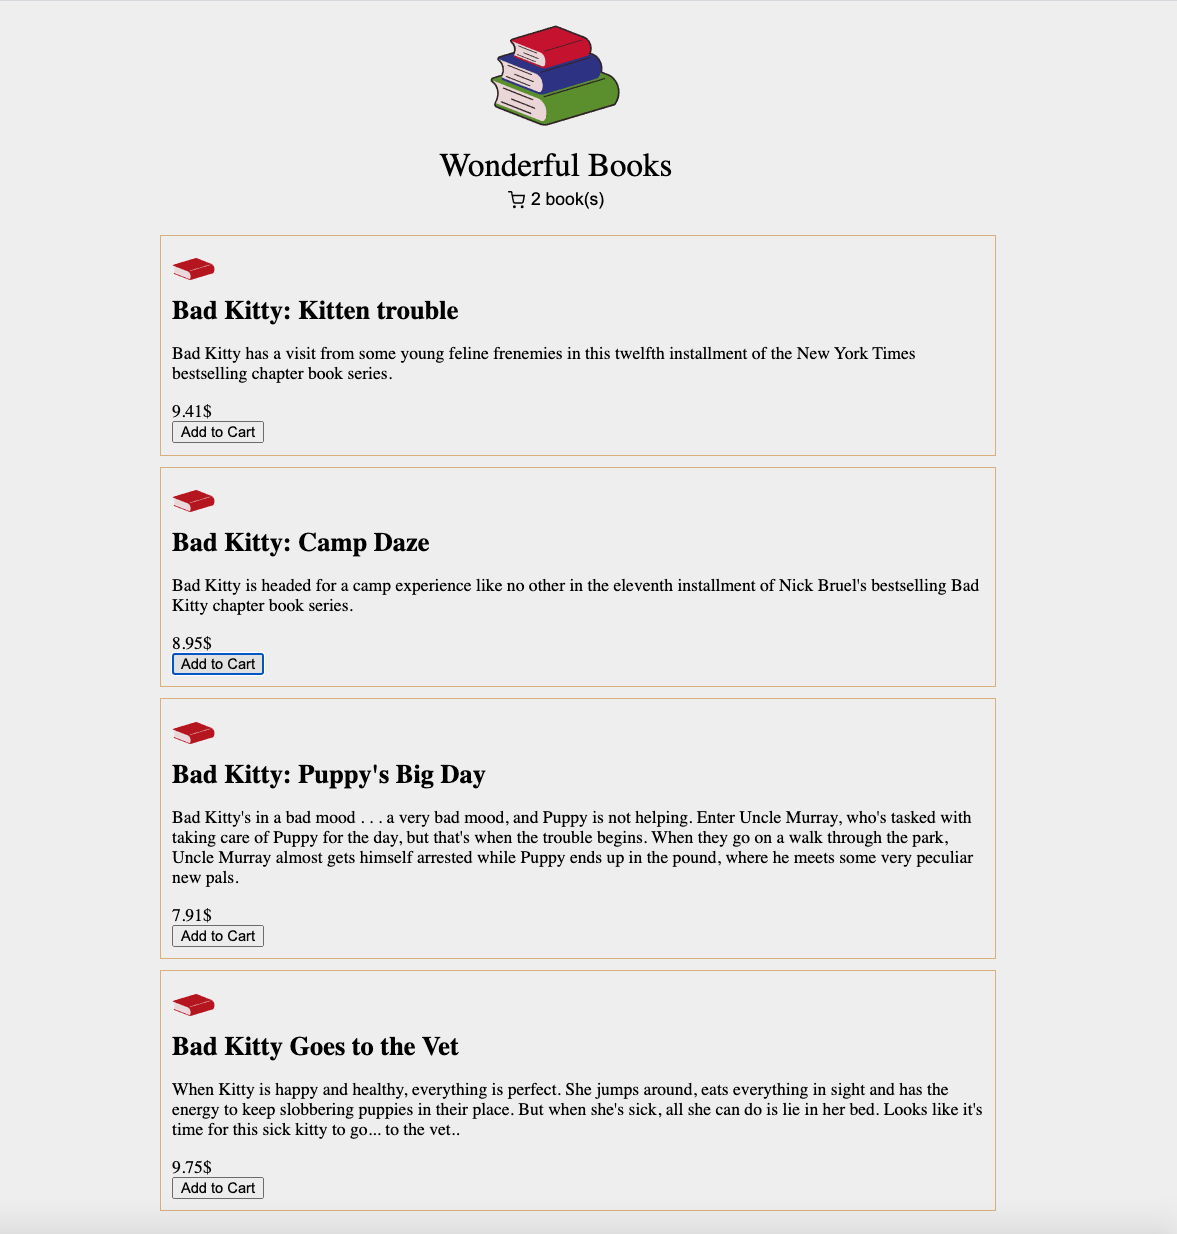
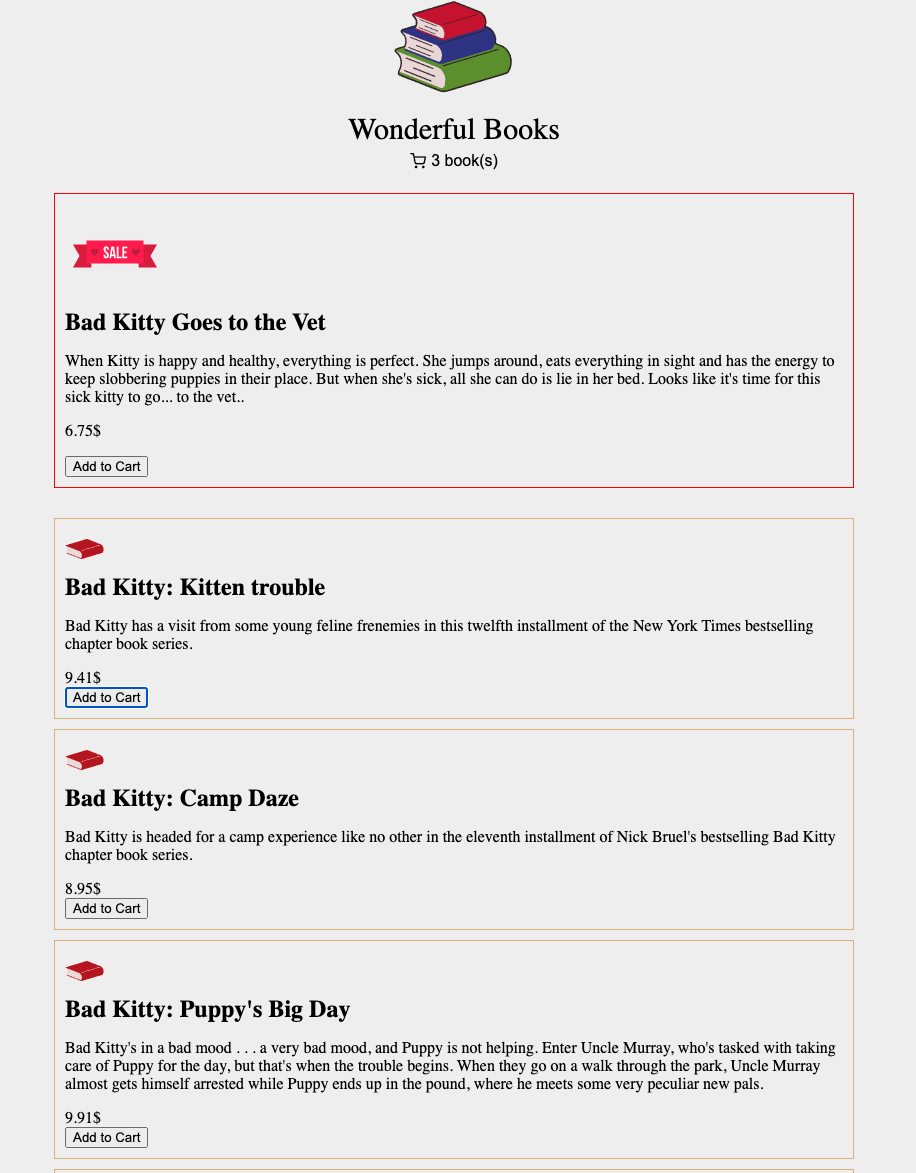
Handling original DOM events

Changed region(s): [[0.0611, 0.1841, 0.917, 0.9821], [0.3668, 0.0, 0.6114, 0.1841]]

diff --git a/src/components/Cart.tsx b/src/components/Cart.tsx
@@ -1,4 +1,4 @@
-import React from 'react';
+import React, { createRef } from 'react';
 import { FiShoppingCart } from 'react-icons/fi';
 import CartCSS from './Cart.module.css';
 import { AppStateContext } from './AppState'
@@ -10,6 +10,8 @@ interface State {
 }
 
 class Cart extends React.Component<Props, State> {
+    #containerRef: React.RefObject<HTMLDivElement>;
+
     constructor(props: Props) {
         super(props);
         this.state = {
@@ -17,6 +19,9 @@ class Cart extends React.Component<Props, State> {
         };
         //using bind:
         // this.handleClick = this.handleClick.bind(this);
+
+        //Initialize the ref
+        this.#containerRef = createRef();
     }
     //using bind:
     // handleClick(e: React.MouseEvent<HTMLButtonElement, MouseEvent>) {
@@ -43,6 +48,18 @@ class Cart extends React.Component<Props, State> {
         this.setState((prevState) => ({ isOpen: !prevState.isOpen }));
     }
 
+    handleOutsideClick = (e: MouseEvent) => {
+        if (this.#containerRef.current && !this.#containerRef.current.contains(e.target as Node)) {
+            this.setState({ isOpen: false });
+        }
+    };
+    componentDidMount() {
+        document.addEventListener('mousedown', this.handleOutsideClick);
+    }
+
+    componentWillUnmount() {
+        document.removeEventListener('mousedown', this.handleOutsideClick);
+    }
 
     render() {
         return (
@@ -52,30 +69,30 @@ class Cart extends React.Component<Props, State> {
             // a context object includes, together with Provider component, the Consumer component.
             // and we can use this component to access the context value through a child function (render props api)
             <AppStateContext.Consumer>
-            {(state) => {
-                const itemsCount = state.cart.items.reduce((sum, item) => {
-                    return sum + item.quantity;
-                }, 0);
-                return (
-                    <div className={CartCSS.cartContainer}>
-                        <button className={CartCSS.button}
-                            type="button"
-                            onClick={this.handleClick}>
-                            <FiShoppingCart />
-                            <span>{itemsCount} book(s)</span>
-                        </button>
-                        <div className={CartCSS.cartDropDown}
-                            style={{
-                                display: this.state.isOpen ? 'block' : 'none',
-                            }}>
-                            <ul>
-                                {state.cart.items.map(item => {
-                                    return <li key={item.id}>{item.name} &times; {item.quantity}</li>
-                                })}
-                            </ul>
-                        </div>
-                    </div>)
-            }}</AppStateContext.Consumer>
+                {(state) => {
+                    const itemsCount = state.cart.items.reduce((sum, item) => {
+                        return sum + item.quantity;
+                    }, 0);
+                    return (
+                        <div className={CartCSS.cartContainer} ref={this.#containerRef}>
+                            <button className={CartCSS.button}
+                                type="button"
+                                onClick={this.handleClick}>
+                                <FiShoppingCart />
+                                <span>{itemsCount} book(s)</span>
+                            </button>
+                            <div className={CartCSS.cartDropDown}
+                                style={{
+                                    display: this.state.isOpen ? 'block' : 'none',
+                                }}>
+                                <ul>
+                                    {state.cart.items.map(item => {
+                                        return <li key={item.id}>{item.name} &times; {item.quantity}</li>
+                                    })}
+                                </ul>
+                            </div>
+                        </div>)
+                }}</AppStateContext.Consumer>
 
 
         )

diff --git a/webpack.config.js b/webpack.config.js
@@ -1,40 +1,44 @@
-const HTMLWebpackPlugin = require('html-webpack-plugin');
-const MiniCssExtractPlugin = require('mini-css-extract-plugin')
+const HtmlWebpackPlugin = require('html-webpack-plugin');
+const MiniCssExtractPlugin = require('mini-css-extract-plugin');
 
 module.exports = {
-    entry: "./src/index.tsx",
-    devtool: "eval-source-map",
-    resolve:{
-        extensions: ['.js', '.ts', '.tsx'],
-    },
-    module:{
-        rules:[{
-            test: /\.tsx?$/,
-            loader: 'ts-loader',
-            exclude: /node_modules/,
+  entry: './src/index.tsx',
+  devtool: 'eval-source-map',
+  resolve: {
+    extensions: ['.js', '.ts', '.tsx'],
+  },
+  module: {
+    rules: [
+      {
+        test: /\.tsx?$/,
+        loader: 'babel-loader',
+        exclude: /node_modules/,
+      },
+      {
+        test: /\.css$/,
+        use: [
+          MiniCssExtractPlugin.loader,
+          { loader: 'css-loader', options: { modules: true } },
+        ],
+      },
+      {
+        test: /\.svg$/,
+        loader: '@svgr/webpack',
+        options: {
+          svgoConfig: {
+            plugins: {
+              removeViewBox: false,
+            },
+          },
         },
-        {
-            test: /\.css$/,
-            use: [MiniCssExtractPlugin.loader, { loader: 'css-loader', options: {modules: true}}],
-        },
-        {
-            test: /\.svg$/,
-            loader: '@svgr/webpack',
-            options: {
-                svgoConfig: {
-                  plugins: {
-                    removeViewBox: false,
-                  },
-                },
-              },
-        },
-    ]
-    },
-    plugins: [
-        new HTMLWebpackPlugin({
-            template: './src/index.html',
-            filename: 'index.html'
-        }),
-        new MiniCssExtractPlugin(),
+      },
     ],
-}
+  },
+  plugins: [
+    new HtmlWebpackPlugin({
+      template: './src/index.html',
+      filename: 'index.html',
+    }),
+    new MiniCssExtractPlugin(),
+  ],
+};

diff --git a/src/components/App.tsx b/src/components/App.tsx
@@ -1,4 +1,4 @@
-import React from 'react';
+import React, { useEffect } from 'react';
 import books from '../data/kids-books.json';
 import Cart from './Cart';
 import AppCSS from './App.module.css';
@@ -9,6 +9,23 @@ import SpecialOffer from './SpecialOffer';
 
 const App = () => {
     const specialOfferBook = books.find( (book) => book.specialOffer);
+
+    //we can useEffect hook to add and remove event listeners:
+    // callback called only once after the first render with empty []
+    // useEffect allows to return a cleanup function from the callback. 
+    //React calls the callback before it calls useEffect callback next time, as well as when the component unmounts.
+    // useEffect(() => {
+    //     const listener = () => {
+    //         alert("Hello");
+    //     };
+    //     document.addEventListener('mousedown', listener);
+
+    //     //cleanup callback
+    //     return () => {
+    //         document.removeEventListener('mousedown', listener)
+    //     }
+    // }, [])
+
     return (
         <AppStateProvider>
             <div className={AppCSS.container}>

diff --git a/src/components/SpecialOffer.tsx b/src/components/SpecialOffer.tsx
@@ -2,6 +2,7 @@ import React from 'react'
 import { Book } from '../types'
 import SpecialOfferCSS from './SpecialOffer.module.css'
 import { WithAddToCartProps } from './AddToCart';
+import OfferSVG from '../svg/sale.svg';
 
 interface Props {
     book: Book;
@@ -11,6 +12,7 @@ const SpecialOffer: React.FC<Props> = ({ book }) => {
 
     return (
         <div className={SpecialOfferCSS.container}>
+            <OfferSVG width={100} height={100} />
             <h2>{book.name}</h2>
             <p>{book.description}</p>
             <p>{book.price}$</p>
